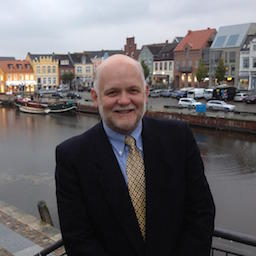
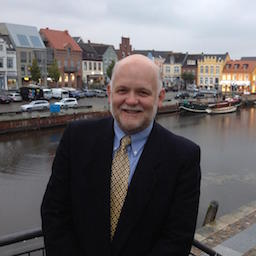
Jeff picture update

diff --git a/index.html b/index.html
@@ -1138,14 +1138,14 @@
 
                             <div class="col-md-3">
                                 <div class="thumbnail">
-                                    <a href="https://www.linkedin.com/in/jeffreyanthony" target="_blank"><img src="assets/images/Mentors/jeff.jpg" class="mentor-img" alt=""></a>
+                                    <a href="https://www.linkedin.com/in/jeffreyanthony" target="_blank"><img src="assets/images/Mentors/Jeff.jpg" class="mentor-img" alt=""></a>
 
                                     <h5><a href="https://www.linkedin.com/in/jeffreyanthony" target="_blank">Jeff Anthony, BSNE, Exec. MBA</a></h5>
 
                                     <p><a href="https://www.linkedin.com/in/jeffreyanthony" target="_blank">Director Energy Innovation Center</a></p>
                                 </div>
                             </div>
-                            
+
                             <div class="col-md-3">
                                 <div class="thumbnail">
                                     <a href="https://www.linkedin.com/pub/alan-perlstein/36/88a/9b5" target="_blank"><img src="assets/images/Mentors/Alan.jpg" class="mentor-img" alt=""></a>
